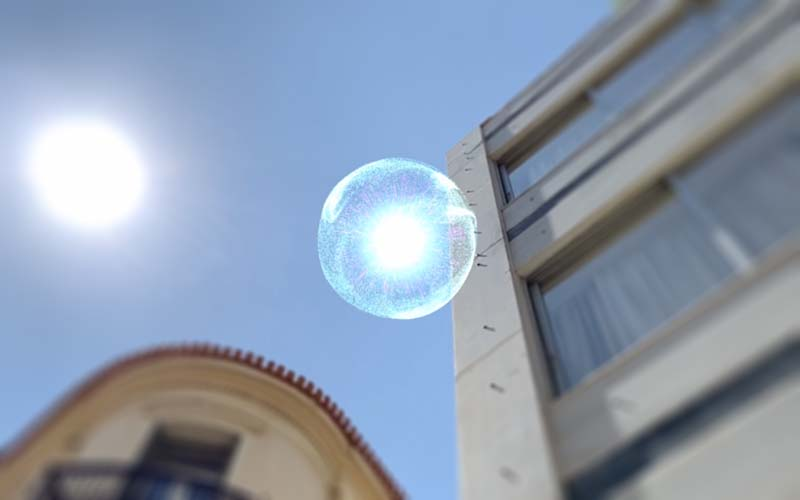
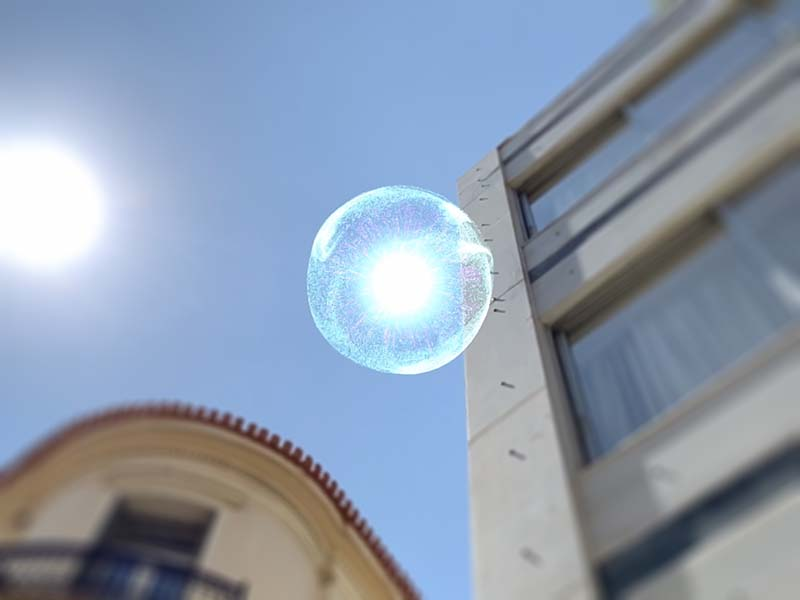
Add container to work images

diff --git a/src/work.html b/src/work.html
@@ -22,10 +22,12 @@
         <section class="work-section">
           <a id="litho-anchor" href="/litho.html" >
             <div class="image-container">
-              <img src="/static/images/work/litho/litho-hero.jpg" alt="Litho Hero">
-              <div class="text-container">
-                <h3>Litho Controller</h3>
-                <p><span>Product Design</span><span>Interaction Design</span></p>
+              <div class="image-sizer">
+                <img src="/static/images/work/litho/litho-hero.jpg" alt="Litho Hero">
+                <div class="text-container">
+                  <h3>Litho Controller</h3>
+                  <p><span>Product Design</span><span>Interaction Design</span></p>
+                </div>
               </div>
             </div>
           </a>
@@ -46,7 +48,7 @@
         <section class="work-section">
           <a id="3d-anchor" href="/3d.html">
             <div class="image-container">
-              <img src="/static/images/work/3d/rose-hero.jpg" alt="Maven Hero">
+              <img src="/static/images/work/3d/3d-hero.jpg" alt="3D Hero">
               <div class="text-container">
                 <h3>Photogrammerty + NFT</h3>
                 <p><span>3D Art</span></p>
@@ -58,7 +60,7 @@
         <section class="work-section">
           <a id="other-anchor" href="/litho.html">
             <div class="image-container">
-              <img src="/static/images/work/other/northstar-hero.jpg" alt="Litho Hero">
+              <img src="/static/images/work/other/other-hero.jpg" alt="Other Hero">
               <div class="text-container">
                 <h3>Other Work</h3>
                 <p><span>Prototyping</span><span>UI / UX</span></p>

diff --git a/src/css/work.css b/src/css/work.css
@@ -58,7 +58,7 @@
 .image-container
 {
     position: relative;
-    height: 200px;
+    height: 180px;
     width: 100%;
     max-width: 700px;
     display: flex;
@@ -66,7 +66,7 @@
     justify-content: center;
     overflow: hidden;
     border-radius: 5px;
-    transition: .5s ease all;
+    transition: 0.5s ease all;
     cursor: pointer;
     transform: skewY(-5deg);
 }
@@ -79,15 +79,6 @@
     }
 }
 
-.image-container img
-{
-    width: 130%;
-    height: 130%;
-    object-fit: cover;
-    transition: 0.5s ease all;
-    transform: skewY(5deg);
-}
-
 .image-container::after
 {
     content: '';
@@ -98,7 +89,7 @@
     height: 100%;
     background: #000;
     opacity: 0;
-    transition: .5s ease all;
+    transition: 0.5s ease all;
   }
   
 .image-container:hover::after
@@ -118,7 +109,7 @@
 
 .image-container:hover
 {
-    height: 300px;
+    height: 260px;
 }
 
 @media(min-width: 750px)
@@ -127,4 +118,18 @@
     {
         height: 350px;
     }
+}
+
+.image-container .image-sizer
+{
+    transform: scale(1.25) skewY(5deg);
+}
+
+.image-container img
+{
+    position: relative;
+    width: 100%;
+    height: 100%;
+    object-fit: cover;
+    transition: 0.5s ease all;
 }
